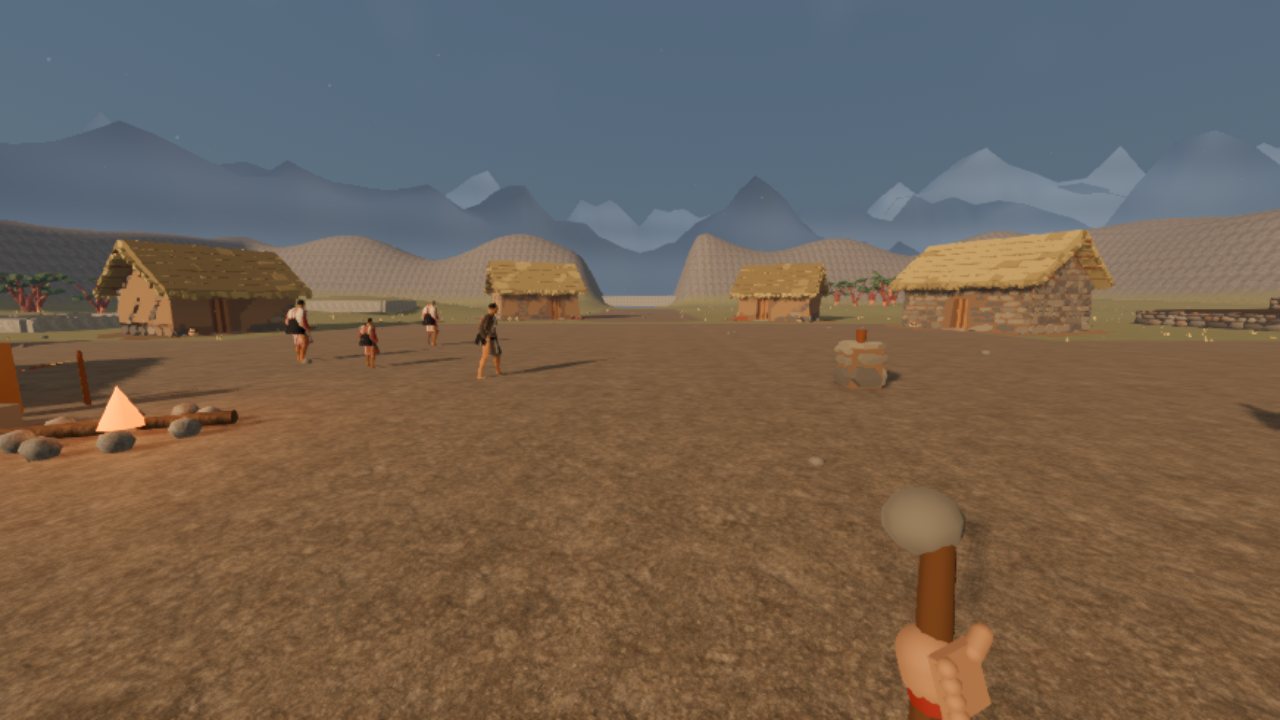
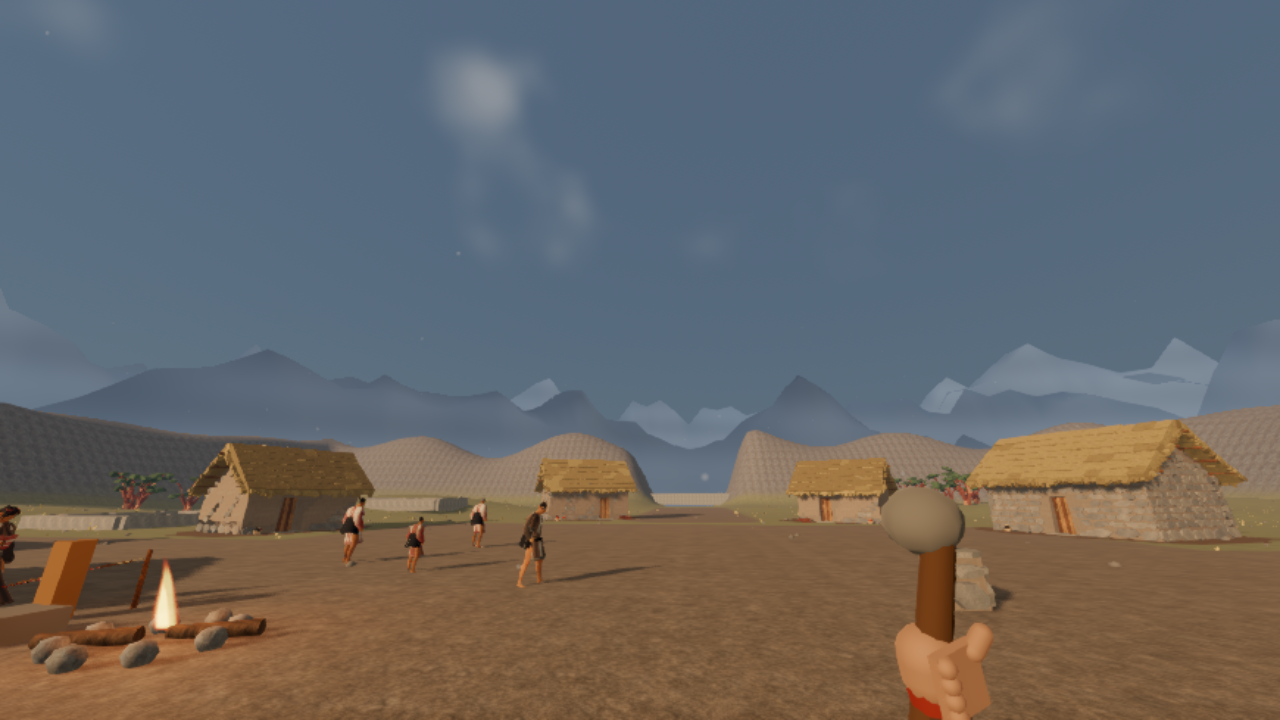
pase visual: casas, llama y armas

diff --git a/docs/05_plan_de_implementacion.md b/docs/05_plan_de_implementacion.md
@@ -121,9 +121,9 @@
 **Estado de la fase 4:**
 
 - **4.8 — Duración y equilibrio (abierto).** Falta la partida humana cronometrada. El registro de sesión marca cada acto y `tools/session_duration.py` resume el total; la suma de fichas da 45,5 min y la pasada guionizada 1:58, pero ninguna es una partida real.
-- **4.9 — Arte y audio por acto (abierto, en curso).** El pase visual corrigió las nubes, sustituyó las siluetas planas de montaña por bandas con volumen en la llacta y el Cusco, añadió estratos y nieve en las cumbres y dio más detalle al terreno. La [guía visual](../campaigns/01_pachacutec/documentation/guia_visual.md) fija la idea, la escala, las formas y una `PaletteTuning` por acto; las cinco capturas están en `documentation/img/guia_visual/`. El elenco ya tiene reposo, habla, trabajo, caminar, correr y manto simulado; la biblia excluye retratos y voces. Faltan texturas finas de roca, props de detalle y la mezcla de audio.
+- **4.9 — Arte y audio por acto (abierto, en curso).** El pase visual corrigió las nubes, sustituyó las siluetas planas de montaña por bandas con volumen en la llacta y el Cusco, añadió estratos y nieve en las cumbres y dio más detalle al terreno. La [guía visual](../campaigns/01_pachacutec/documentation/guia_visual.md) fija la idea, la escala, las formas y una `PaletteTuning` por acto; las cinco capturas están en `documentation/img/guia_visual/`. El elenco ya tiene reposo, habla, trabajo, caminar, correr y manto simulado; la biblia excluye retratos y voces. Las casas de la llacta reciben las texturas de superficie (piedra, paja y madera), la llama del fuego es un shader y las tarjetas de los actos III y IV se leen mejor. Faltan props finos de detalle y la mezcla de audio.
 - **4.10 — Rendimiento (cerrado el 2026-11-16).** Medición final de Medio a 1080p con las cordilleras, el shader aligerado y la escala 0,68: llacta 89,4, paso 93,4, Cusco 63,6, posguerra 97,5 y obra 90,5 FPS de mediana. Se mantuvo el SSAO. El Cusco es el acto más ajustado (63,2 en la peor pasada). El detalle está en [docs/08](08_entorno_y_rendimiento.md).
-- **4.12 — Elenco Quaternius (pulido abierto: fonemas y validación humana).** Todo el elenco usa los diez cuerpos UBC CC0 con clips UAL1/UAL2, ropa propia y texturas de cara; no queda elenco MakeHuman/Rocketbox. Los papeles sin modelo propio reutilizan arquetipos: Tejedora = Anca Q, Agricultor = Joven Q con chaquitaclla, HijoPuma = Joven Q a 1,20 m (sin base infantil gratuita en UBC Standard; decisión final), heridos y comitiva comparten Madre/Hermano/Joven. Se retiraron el híbrido Rocketbox, el injerto de cabeza MakeHuman y sus pruebas y capturas. La política de sombras (solo cuerpo y ropa) y el LOD de multitud por material dejan los cinco actos bajo el presupuesto: llacta 248 draw calls/222,3 MB, paso 244/162,8 MB, Cusco 297/230,9 MB, posguerra 226/222,8 MB y obra 257/217,5 MB. El manto tiene seis huesos y muelles, la mano en primera persona articula las falanges y sostiene el arma con un puño, la mandíbula abre la boca al hablar y los párpados y las cejas se animan. El Cusco es el acto más ajustado (69,4 FPS de mediana y p1 60,0 con carga 1,1–1,6); en una pasada aislada la media bajó a 53,8 y el p1 a 40,7. 139 pruebas, arena y arco completos. Detalle y capturas en [personajes_quaternius.md](../campaigns/01_pachacutec/documentation/personajes_quaternius.md).
+- **4.12 — Elenco Quaternius (pulido abierto: fonemas y validación humana).** Todo el elenco usa los diez cuerpos UBC CC0 con clips UAL1/UAL2, ropa propia y texturas de cara; no queda elenco MakeHuman/Rocketbox. Los papeles sin modelo propio reutilizan arquetipos: Tejedora = Anca Q, Agricultor = Joven Q con chaquitaclla, HijoPuma = Joven Q a 1,20 m (sin base infantil gratuita en UBC Standard; decisión final), heridos y comitiva comparten Madre/Hermano/Joven. Se retiraron el híbrido Rocketbox, el injerto de cabeza MakeHuman y sus pruebas y capturas. La política de sombras (solo cuerpo y ropa) y el LOD de multitud por material dejan los cinco actos bajo el presupuesto: llacta 220 draw calls/222,8 MB, paso 258/162,9 MB, Cusco 297/230,9 MB, posguerra 218/223,3 MB y obra 243/218,0 MB. El manto tiene seis huesos y muelles, la mano en primera persona articula las falanges y sostiene el arma con un puño, la mandíbula abre la boca al hablar y los párpados y las cejas se animan. El Cusco es el acto más ajustado (69,4 FPS de mediana y p1 60,0 con carga 1,1–1,6); en una pasada aislada la media bajó a 53,8 y el p1 a 40,7. 140 pruebas, arena y arco completos. Detalle y capturas en [personajes_quaternius.md](../campaigns/01_pachacutec/documentation/personajes_quaternius.md).
 - **4.11 — Sensación de combate (cerrado el 2026-11-16).** El ataque deja de ser instantáneo: `CombatLoadout` separa anticipación, ventana activa y recuperación; el impacto añade hitstop, golpe de cámara y destello; el escudo tiene parry de 0,15 s y bloqueo del 70 %; los chancas avisan el golpe con una esfera y comparten fichas de ataque (máximo dos a la vez); el cuerpo derribado deja de bloquear. La arena de `combat_arena_check.gd` resuelve tres enemigos con ≤ 2 atacantes. El registro está en [combat-tuning-log](combat-tuning-log.md).
 
 **Entregables:**

diff --git a/docs/06_estrategia_de_pruebas.md b/docs/06_estrategia_de_pruebas.md
@@ -108,7 +108,7 @@ Un ejecutor propio mínimo en `tests/run_tests.gd` (`extends SceneTree`) carga c
 | `test_assembly` | El tercer encargo abre la asamblea, la elección deja su bandera y aparece la tarjeta de fin |
 | `test_post_acts` | El acto IV abre la asamblea de posguerra y el maíz guardado paga; el acto V completa las cinco obras, incluida la casa, y cierra la campaña |
 | `test_campaign_progress` | Recursos, oficio y habilidades del acto I sobreviven al paso al acto II |
-| `test_end_card_body` | La tarjeta de fin muestra la noticia de Viracocha y el nombre nuevo con su variante |
+| `test_end_card_body` | La tarjeta de fin muestra la noticia de Viracocha y el nombre nuevo, y espera al fondo oscuro antes de mostrar el cuerpo |
 | `test_act_three_cost` | La defensa tiene tres oleadas; el costo de Anca y el del hijo de Puma llegan al epílogo |
 | `test_paso_sneak` | El sigilo exige Monte o el aviso del mensajero; la cuerda se consume al distraer |
 | `test_camp_dialogue` | El campamento reparte sus seis opciones en dos páginas y no pierde coca ni salida |
@@ -150,7 +150,7 @@ Un ejecutor propio mínimo en `tests/run_tests.gd` (`extends SceneTree`) carga c
 | `test_audio_manager_buses` | Buses y limitador |
 | `test_campaign_audio` | Recursos de audio de la campaña y bucles |
 | `test_model_validator` | Validación de modelos |
-| `test_quaternius_characters` | Rig de 76 huesos (65 UBC + 6 de manto + 1 mandíbula + 4 de expresión), clips lógicos, `NpcActor`, catálogo de todos los papeles, política de sombras, LOD de multitud, muelles del manto, mandíbula de habla, parpadeo, cejas y altura de HijoPuma |
+| `test_quaternius_characters` | Rig de 76 huesos (65 UBC + 6 de manto + 1 mandíbula + 4 de expresión), clips lógicos, `NpcActor`, catálogo de todos los papeles, política de sombras, LOD de multitud, muelles del manto, mandíbula de habla, parpadeo, cejas, porra que se oculta cerca de la cámara y altura de HijoPuma |
 | `test_chaquitaclla` | GLB de la chaquitaclla del Agricultor, validador, altura y estribo |
 | `test_first_person_hands` | Malla propia de la mano, falanges articuladas y gesto de interacción |
 | `test_main_scene_is_title` | La escena principal es la pantalla de título |
@@ -251,5 +251,6 @@ tiempos de carga de escena quedan dentro del acto que empieza.
 | 2026-11-18 | Mandíbula de habla | `pch_quaternius.py`, `run_tests.gd` y `capture_quaternius.tscn` | 137 pruebas, 0 fallos; diez GLB con 72 huesos (65 UBC + 6 de manto + 1 mandíbula); la boca se abre con el clip `talk`; sin fonemas, cejas animadas ni parpadeo |
 | 2026-11-18 | Parpadeo y cejas | `pch_quaternius.py`, `character_face.gd`, `run_tests.gd` y `capture_quaternius.tscn` | 138 pruebas, 0 fallos; diez GLB con 76 huesos; `Blink_L/R` cierra el párpado y `Brow_L/R` alza la ceja; la multitud parpadea; sin fonemas |
 | 2026-11-18 | Revisión general: HUD y puño del arma | `hud.gd`, `hud_text.gd`, `first_person_weapon.gd`, `run_tests.gd`, `capture_quaternius.tscn` y `measure_performance.tscn` | 139 pruebas, 0 fallos; la pista baja de la banda cinematográfica; el texto de la tarjeta de fin espera al fondo oscuro y no deja la pista detrás; la honda y la porra se sostienen con un puño de bloqueo (+9 draw calls en primera persona); Cusco 297, llacta 248 |
+| 2026-11-18 | Pase visual: casas, llama y tarjetas | `llacta.gd`, `ciudad.gd`, `character_model_visual.gd`, `first_person_weapon.gd`, `first_person_hands.gd`, `hud.gd`, `capture_quaternius.tscn` y `run_tests.gd` | 140 pruebas, 0 fallos; casas de la llacta con `SurfaceMaterials` (piedra, paja y madera); llama por shader; tarjeta del acto IV a 0,80; párrafos en la del III; porra de PNJ oculta a menos de 1,4 m; honda con correa fina; mano de interacción a 0,68 |
 
 Cada entrega añade una fila con el alcance, el comando y el resultado.

diff --git a/campaigns/01_pachacutec/documentation/README.md b/campaigns/01_pachacutec/documentation/README.md
@@ -51,7 +51,7 @@ Clasificación según [docs/07_convenciones_historicas.md](../../../docs/07_conv
 
 ## 6. Estado de construcción
 
-La campaña se juega de principio a fin con blockout y materiales propios: los actos I–V encadenan llacta, paso, Cusco, posguerra y reconstrucción. El acto I tiene intro, elenco, encargos con recursos, duda, mensajero y asamblea; el II añade marcha, campamento, emboscada, llegada y preparación; el III tiene trampa, tres oleadas y costo con nombre; el IV añade cuentas y asamblea con Palabra; el V reconstruye cinco obras, incluida la casa de Rumi, y cierra con variantes. El guion y el guion de escenas están cerrados y las 139 pruebas pasan. El combate tiene fases de golpe, parry, hitstop, aviso enemigo y fichas de ataque; la guía visual fija la paleta de los cinco actos. El elenco es Quaternius: diez personajes cubren todos los papeles con texturas de rostro propias y textiles andinos, UAL2, texturas compartidas y estática fusionada. No queda elenco MakeHuman/Rocketbox ni bandera de selección. La llacta mide 248 draw calls y 222,3 MB; el Cusco 297/230,9 MB; los cinco actos cumplen el presupuesto de 350. El Agricultor tiene su chaquitaclla plantada en la terraza; el manto se mece con muelles, la mano en primera persona articula las falanges y sostiene el arma con un puño, la mandíbula abre la boca al hablar y los párpados y las cejas se animan. Falta rematar el pase de arte (texturas finas de roca y props), la mezcla de audio escuchada, el equilibrio y la partida humana cronometrada.
+La campaña se juega de principio a fin con blockout y materiales propios: los actos I–V encadenan llacta, paso, Cusco, posguerra y reconstrucción. El acto I tiene intro, elenco, encargos con recursos, duda, mensajero y asamblea; el II añade marcha, campamento, emboscada, llegada y preparación; el III tiene trampa, tres oleadas y costo con nombre; el IV añade cuentas y asamblea con Palabra; el V reconstruye cinco obras, incluida la casa de Rumi, y cierra con variantes. El guion y el guion de escenas están cerrados y las 140 pruebas pasan. El combate tiene fases de golpe, parry, hitstop, aviso enemigo y fichas de ataque; la guía visual fija la paleta de los cinco actos. El elenco es Quaternius: diez personajes cubren todos los papeles con texturas de rostro propias y textiles andinos, UAL2, texturas compartidas y estática fusionada. No queda elenco MakeHuman/Rocketbox ni bandera de selección. La llacta mide 220 draw calls y 222,8 MB; el Cusco 297/230,9 MB; los cinco actos cumplen el presupuesto de 350. El Agricultor tiene su chaquitaclla plantada en la terraza; el manto se mece con muelles, la mano en primera persona articula las falanges y sostiene el arma con un puño, la mandíbula abre la boca al hablar y los párpados y las cejas se animan. Las casas de la llacta ya tienen texturas de superficie y la llama del fuego es un shader. Faltan props finos de detalle, la mezcla de audio escuchada, el equilibrio y la partida humana cronometrada.
 
 ## 7. Notas de producción
 

diff --git a/docs/bitacora.md b/docs/bitacora.md
@@ -12,6 +12,7 @@ La bitácora **no es una fuente de verdad**: no crea reglas ni prevalece sobre `
 | HijoPuma sin base infantil | Se revisa el pack UBC Standard: solo incluye los cuerpos Superhero (hombre y mujer); Regular/Teen son de la versión Source de pago, no usada. No hay base infantil gratuita compatible con el rig Q y no se mezcla otro set. Se cierra la decisión con el Joven Q a 1,20 m y una prueba de altura. 135 pruebas | — |
 | Mano articulada y manto con muelles | Los diez GLB Q pasan a 71 huesos: 65 de UBC más 6 de manto (`Cape_L/C/R_1/2`) con pesos en el paño. `NpcActor` y `CharacterModelVisual` montan `SpringBoneSimulator3D` con cápsulas en pelvis y cintura; la multitud no simula muelles. La mano en primera persona articula las falanges y cierra el puño al golpear. Capturas y medición nuevas: llacta 249 draw calls/222,3 MB y 101,7 FPS; Cusco 288/230,8 MB y 70,6 FPS. 136 pruebas | — |
 | Mandíbula de habla | Se añade el hueso `Jaw` (72 huesos: 65 UBC + 6 de manto + 1 mandíbula) y se reparte el labio inferior, el mentón y la barba entre `Head` y `Jaw`. `CharacterFace` abre y cierra la boca mientras suena `talk`; la multitud no anima la cara. Es animación de habla, no fonemas ni parpadeo. 137 pruebas | — |
+| Pase visual: casas, llama y tarjetas | Las casas de la llacta pasan por `SurfaceMaterials` al cargar el modelo (piedra, paja y madera); la llama del fuego comunal es un shader billboard; la tarjeta del acto IV baja a 0,80 de opacidad; la del acto III se divide en párrafos; la porra de PNJ se oculta a menos de 1,4 m; la honda usa correa fina y bolsa; la mano de interacción baja a 0,68. 140 pruebas; llacta 220, paso 258, Cusco 297, posguerra 218 y obra 243 draw calls. | — |
 | Revisión general: HUD y puño del arma | La pista superior baja a 72–114 px para no quedar bajo la banda de 64 px; la tarjeta de fin espera 0,35 s antes de mostrar el texto y lo desvanece con el fondo; la honda y la porra llevan un puño de bloqueo con manga. Se extrae `HudText.reading_seconds` para que `hud.gd` no crezca (612 líneas). 139 pruebas; draw calls llacta 248, Cusco 297. | — |
 | Parpadeo y cejas | Los diez GLB Q pasan a 76 huesos (65 UBC + 6 de manto + 1 mandíbula + 4 de expresión). `Blink_L/R` baja el párpado superior y `Brow_L/R` alza la ceja; `CharacterFace` parpadea cada 2,8–6,2 s y alza las cejas al hablar, también en la multitud. Se corrige el uso de `set_bone_pose_position`, que es absoluto en el esqueleto y no un desplazamiento. Capturas nuevas `curaca_blink` y `curaca_brows`. 138 pruebas | — |
 

diff --git a/campaigns/01_pachacutec/documentation/personajes_quaternius.md b/campaigns/01_pachacutec/documentation/personajes_quaternius.md
@@ -100,16 +100,16 @@ Medición con el set Q completo, sin bandera. Tres pasadas por acto con carga
 
 | Acto | Draw calls | Memoria de vídeo | FPS medio | p1 |
 |---|---|---|---|---|
-| I — Llacta | 248 | 222,3 MB | 95,4 | 73,8 |
-| II — Paso | 244 | 162,8 MB | 119,7 | 110,0 |
+| I — Llacta | 220 | 222,8 MB | 95,4 | 73,8 |
+| II — Paso | 258 | 162,9 MB | 119,7 | 110,0 |
 | III — Cusco | 297 | 230,9 MB | 69,4 | 60,0 |
-| IV — Posguerra | 226 | 222,8 MB | 107,4 | 97,6 |
-| V — Obra | 257 | 217,5 MB | 101,7 | 98,3 |
+| IV — Posguerra | 218 | 223,3 MB | 107,4 | 97,6 |
+| V — Obra | 243 | 218,0 MB | 101,7 | 98,3 |
 
 Los cinco actos cumplen el presupuesto de **≤ 350 draw calls**. Son tres pasadas
 por acto con carga 1,1–1,6 y se publica la mediana. La chaquitaclla del
 Agricultor añade 1 draw call; el puño que sostiene el arma suma unos 9 en
-primera persona y deja la llacta en 248 y el Cusco en 297. El
+primera persona y deja la llacta en 220, el paso en 258, el Cusco en 297, la posguerra en 218 y la obra en 243. El
 desglose del Cusco mostró que la multitud pesaba 173 draw calls y el pase de
 sombra 266; el LOD por material y la política de sombras los dejan en torno a
 100 y 140. El Cusco es el acto más ajustado (69,4 FPS de media, p1 60,0); en una
@@ -150,6 +150,7 @@ La identidad viene de la ropa, el pelo, la paleta y la silueta:
 | Curaca parpadeando | ![Curaca parpadeando](img/personajes/curaca_blink_q.png) |
 | Curaca con las cejas alzadas | ![Curaca con las cejas alzadas](img/personajes/curaca_brows_q.png) |
 | Arma en primera persona | ![Arma en primera persona](img/personajes/arma_q.png) |
+| Honda en primera persona | ![Honda en primera persona](img/personajes/honda_q.png) |
 | Mensajero | ![Mensajero](img/personajes/mensajero_q.png) |
 | Chanca | ![Chanca](img/personajes/chanca_q.png) |
 | Mujer mayor | ![Mujer mayor](img/personajes/anciana_q.png) |
@@ -217,7 +218,7 @@ godot --headless --path . --script res://tests/arc_playthrough.gd
 python3 tools/check_gdscript_limits.py
 ```
 
-Resultados: **139 pruebas, 0 fallos**; arena (`resolved=3`, `max_attackers=1`)
+Resultados: **140 pruebas, 0 fallos**; arena (`resolved=3`, `max_attackers=1`)
 y `ARCO_OK` con el set Q; importación sin errores ni advertencias de `res://`.
 Las pruebas recorren los diez modelos, las diez texturas de cara y el catálogo
 de todos los papeles.

diff --git a/docs/08_entorno_y_rendimiento.md b/docs/08_entorno_y_rendimiento.md
@@ -158,20 +158,23 @@ Resultado con el elenco Q completo:
 
 | Acto | Draw calls | Memoria de vídeo | FPS medio | p1 |
 |---|---|---|---|---|
-| I — Llacta | 248 | 222,3 MB | 95,4 | 73,8 |
-| II — Paso | 244 | 162,8 MB | 119,7 | 110,0 |
+| I — Llacta | 220 | 222,8 MB | 95,4 | 73,8 |
+| II — Paso | 258 | 162,9 MB | 119,7 | 110,0 |
 | III — Cusco | 297 | 230,9 MB | 69,4 | 60,0 |
-| IV — Posguerra | 226 | 222,8 MB | 107,4 | 97,6 |
-| V — Obra | 257 | 217,5 MB | 101,7 | 98,3 |
+| IV — Posguerra | 218 | 223,3 MB | 107,4 | 97,6 |
+| V — Obra | 243 | 218,0 MB | 101,7 | 98,3 |
 
 Los cinco actos cumplen el presupuesto de **≤ 350 draw calls**. Son tres pasadas
 por acto con carga 1,1–1,6; se publica la mediana. La chaquitaclla del
 Agricultor añade 1 draw call; el puño que sostiene el arma suma unos 9 en
-primera persona. La revisión del 2026-11-18 midió llacta 247–248 y Cusco 297
-con carga 12–23; los FPS de la tabla son de la pasada en reposo anterior. El
-Cusco es el acto más ajustado (69,4 FPS de media y p1 60,0); el resto supera
-60 FPS con holgura. En una pasada aislada del Cusco la media bajó a 53,8 y el
-p1 a 40,7; se vigila al añadir arte final.
+primera persona. Las casas de la llacta usan un único material de superficie y
+bajan a 220. La comprobación del pase visual (2026-11-18) midió estos draw
+calls con carga variable (2,1–37); los FPS de la tabla son de la pasada en
+reposo anterior. Con carga 2,1–2,3, llacta dio 90,0/87,2 FPS y Cusco 66,4/66,1;
+siguen por encima de 60. El Cusco es el acto más ajustado
+(69,4 FPS de media y p1 60,0); el resto supera 60 FPS con holgura. En una
+pasada aislada del Cusco la media bajó a 53,8 y el p1 a 40,7; se vigila al
+añadir arte final.
 
 **Línea base de Medio (2026-11-16):** medido sobre el arco nuevo el 2026-11-16 en la GPU integrada de referencia (Intel UHD 770), a 1920 × 1080, sin vsync y con el estado de campaña limpio entre actos. La herramienta es `tests/scenes/measure_performance.tscn`: calienta 60 fotogramas y muestrea 300, con FPS medio y p1 (percentil 99 del tiempo de fotograma). La tabla es la medición final del 2026-11-16, con las cordilleras con volumen, el shader aligerado y la escala 3D de Medio en 0,68. El Medio se midió con carga 1,8–2,7 y el Bajo con carga 1,6–3,8.
 
